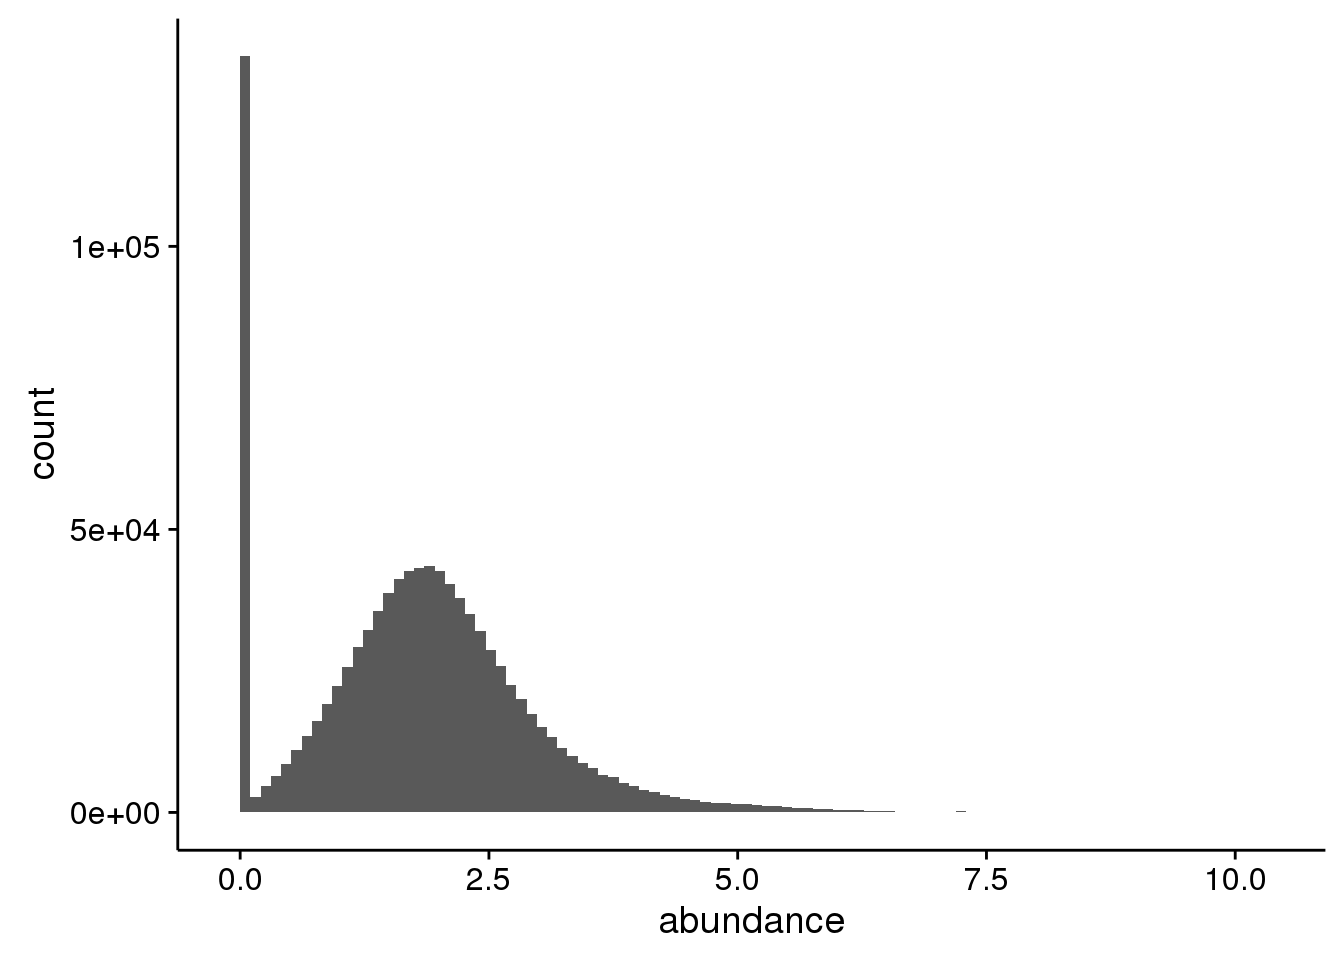
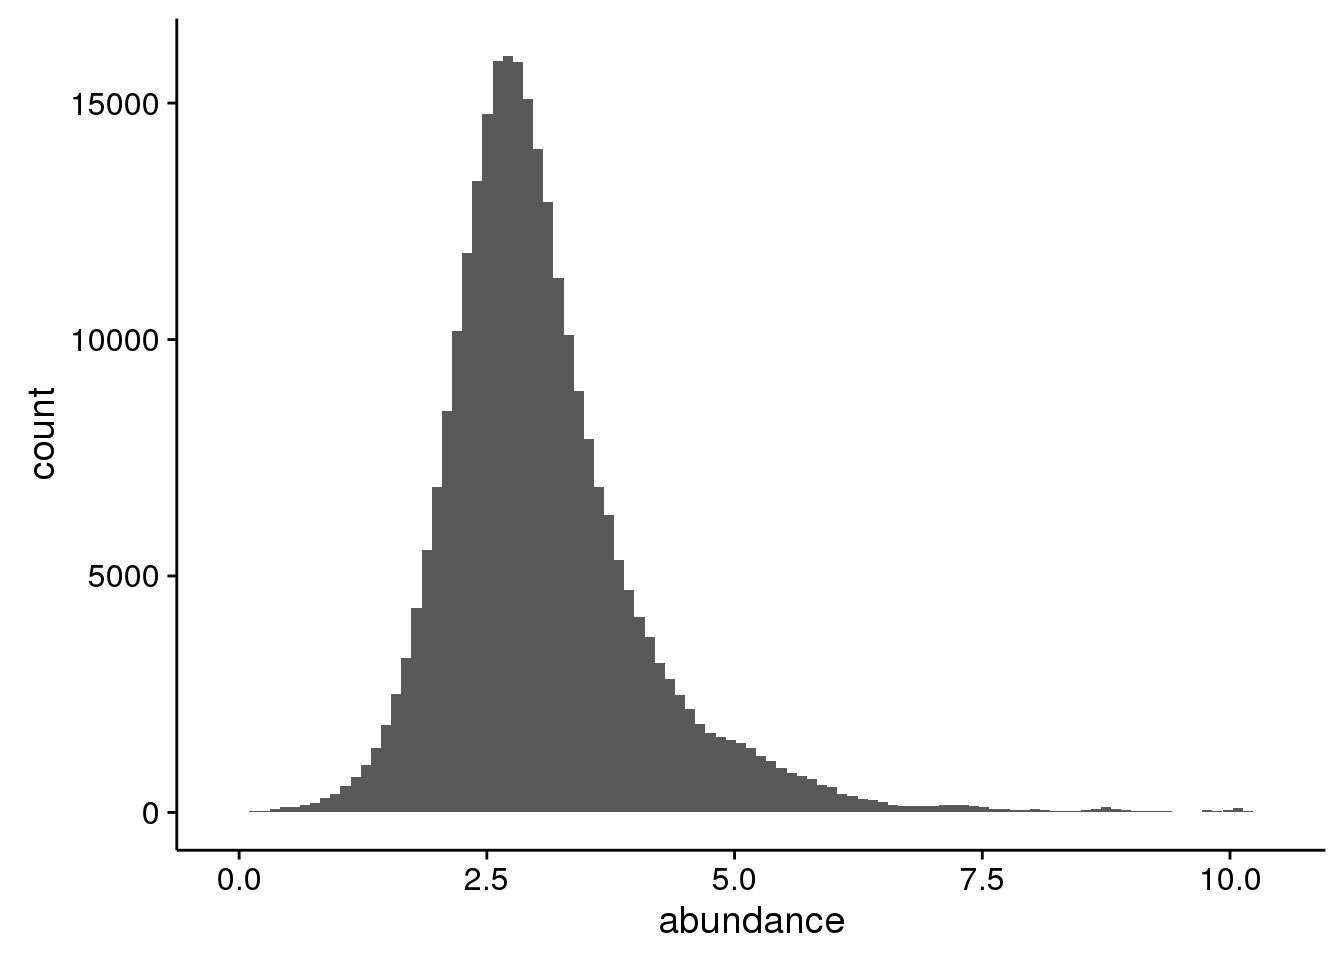
new render with nozero data

diff --git a/glbio2016_manuscript.knit.md b/glbio2016_manuscript.knit.md
@@ -1,7 +1,7 @@
 ---
 title: "Visualizing Effect of Data Transformations on Errors"
 author: "Robert M Flight"
-date: "2016-01-01 22:59:29"
+date: "2016-01-05 14:13:02"
 output: html_document
 ---
 
@@ -49,10 +49,15 @@ Simulated data was generated from an initial set of 10000 points drawn from
 a log-normal distribution with a mean in log-space of 1 and a standard deviation
 of 1 (see histogram in Figure X). These data points are the **pure** initial 
 data to which different types of error are added. From this set, 100 replicates are 
-generated with either *additive*, *proportional* or *mixed* (both additive and
-proportional) error. Negative values are truncated to zero, because there cannot
+generated with either *additive* (`add`), *proportional* (`prop`) or *mixed* 
+(both additive and proportional, `mixed`) error. Negative values are truncated 
+to zero, because there cannot
 be negative values when measuring the abundance of physical entities, and because
 it makes applying log-transforms even more difficult than usual.
+
+Alternatively, transformations and plots were applied to data where none of the
+replicates have a zero value (`nozero`), or where none of the replicates were 
+below **1** (`minone`). 
 
 
 
@@ -158,7 +163,7 @@ a higher root may be useful.
 ##  language (EN)                        
 ##  collate  en_US.UTF-8                 
 ##  tz       America/New_York            
-##  date     2016-01-01
+##  date     2016-01-05
 ```
 
 
@@ -184,7 +189,6 @@ a higher root may be useful.
 |ggplot2                     |*  |2.0.0      |2015-12-18 |CRAN (R 3.2.2)                           |
 |GlobalOptions               |   |0.0.8      |2015-08-18 |CRAN (R 3.2.2)                           |
 |gtable                      |   |0.1.2      |2012-12-05 |CRAN (R 3.2.2)                           |
-|highr                       |   |0.5.1      |2015-09-18 |CRAN (R 3.2.2)                           |
 |htmltools                   |   |0.2.6      |2014-09-08 |CRAN (R 3.2.2)                           |
 |knitr                       |   |1.11       |2015-08-14 |CRAN (R 3.2.2)                           |
 |labeling                    |   |0.3        |2014-08-23 |CRAN (R 3.2.2)                           |
@@ -196,10 +200,8 @@ a higher root may be useful.
 |R6                          |   |2.1.1      |2015-08-19 |CRAN (R 3.2.2)                           |
 |RColorBrewer                |   |1.1-2      |2014-12-07 |CRAN (R 3.2.2)                           |
 |Rcpp                        |   |0.12.2     |2015-11-15 |CRAN (R 3.2.2)                           |
-|reshape2                    |   |1.4.1      |2014-12-06 |CRAN (R 3.2.2)                           |
 |rjson                       |   |0.2.15     |2014-11-03 |CRAN (R 3.2.2)                           |
 |rmarkdown                   |   |0.8.1      |2015-10-10 |CRAN (R 3.2.2)                           |
-|rstudioapi                  |   |0.3.1      |2015-04-07 |CRAN (R 3.2.2)                           |
 |scales                      |   |0.3.0      |2015-08-25 |CRAN (R 3.2.2)                           |
 |shape                       |   |1.4.2      |2014-11-05 |CRAN (R 3.2.2)                           |
 |stringi                     |   |1.0-1      |2015-10-22 |CRAN (R 3.2.2)                           |
